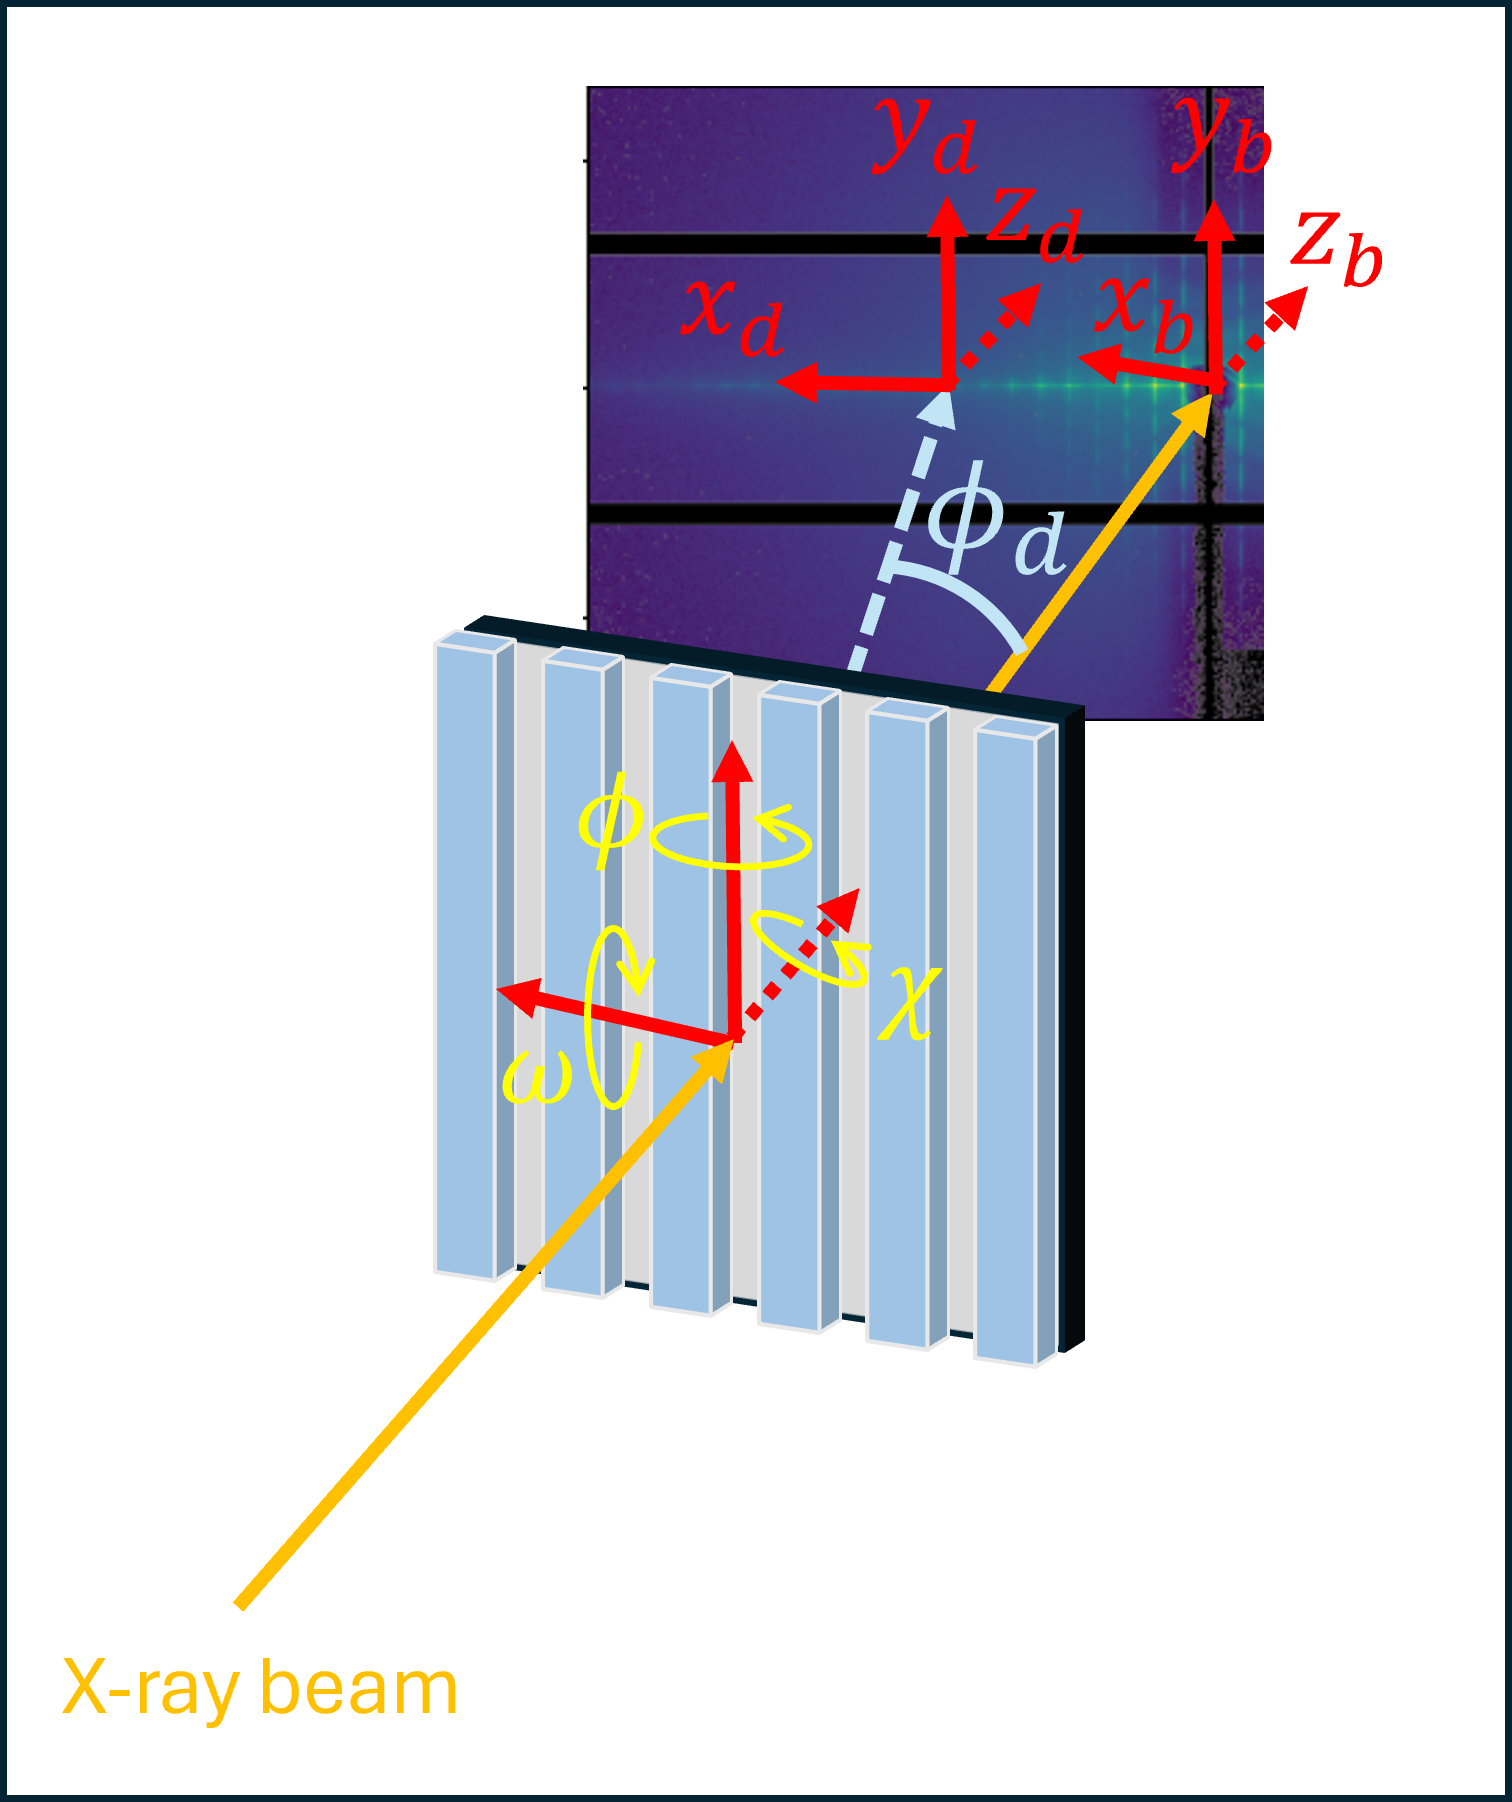
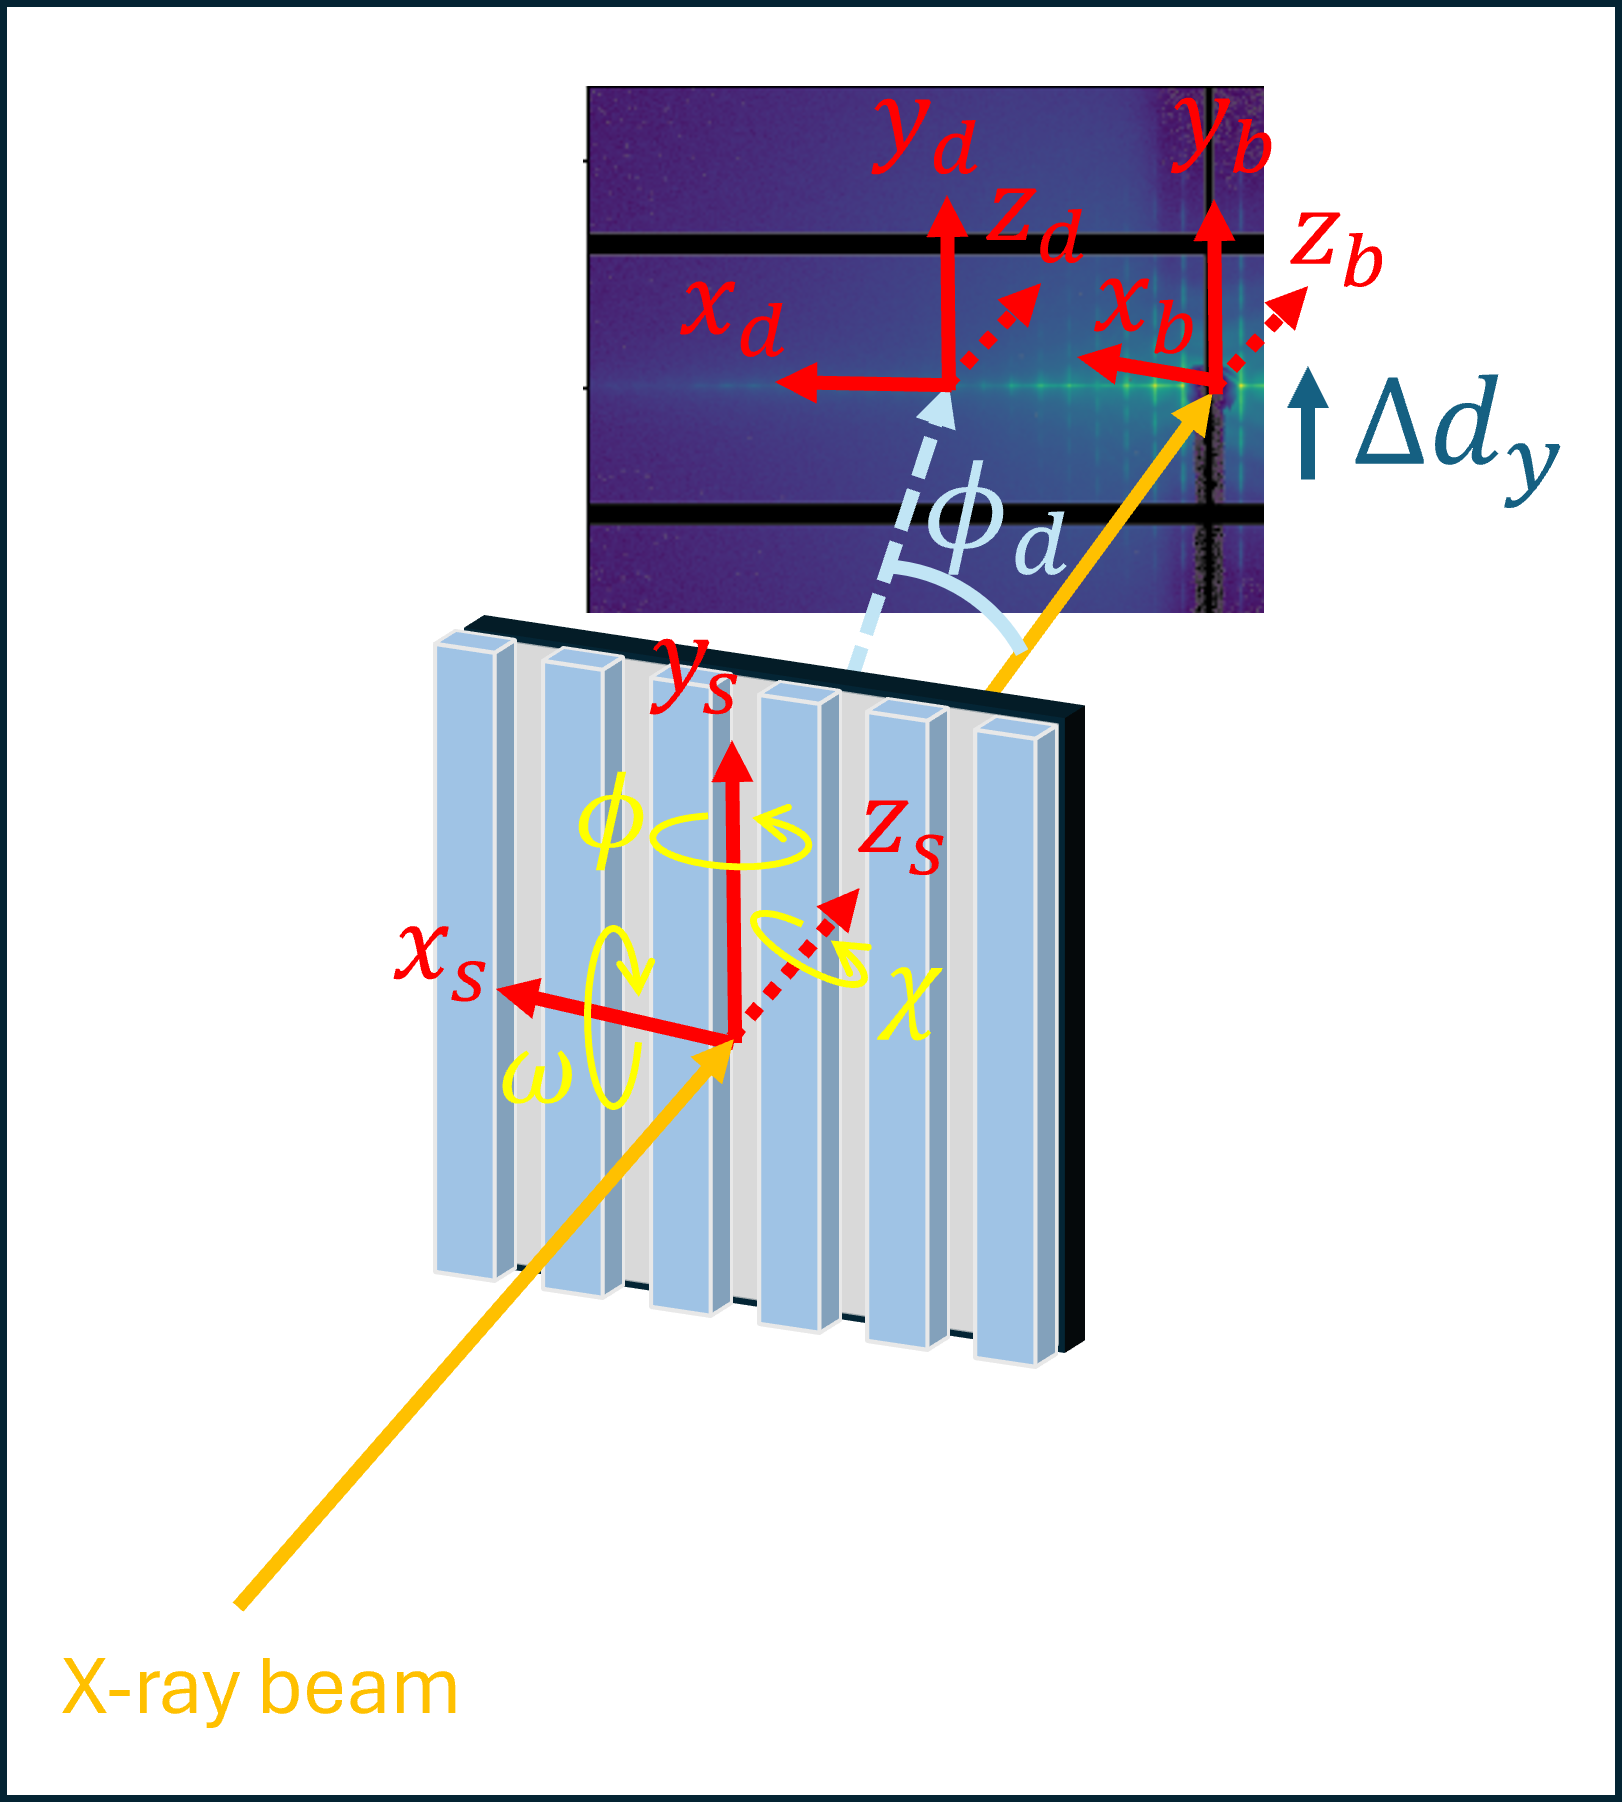
added additional coordinate and variable definitions and information

Changed region(s): [[0.0311, 0.0311, 0.9636, 0.9634], [0.9947, 0.0, 1.0, 0.9945]]

diff --git a/README.md b/README.md
@@ -92,9 +92,9 @@ VS Code. Click on the file and make sure to select the appropriate
 Python environment to run the notebook.
 
 
-## CD-SAXS Coordinate Conventions
-All data imported into this software should follow the below coordinate
-conventions. This may require assigning metadata named according to the
+## Coordinate Conventions and Variables
+All data imported into this software should follow the coordinate
+conventions defined below. This may require assigning metadata named according to the
 beamline's coordinate conventions appropriately to this software's
 naming convention. Image transformations, such as rotations or flips, 
 may also be required to ensure the data is processed correctly. While 
@@ -146,21 +146,15 @@ $\phi_d$ in the image.
 The scattering vector, $q$, and it's x-, y-, and z-components can be 
 defined in any of the coordinate systems using the `nist_cdsaxs` software. 
 At normal incidence of the sample and detector, the q-components are identical, e.g., $q_{sx}=q_{dx}=q_{bx}$. 
-
-Sample and detector positions and rotations, as well as information about the 
-X-ray source energy are provided to the software in the `metadata` attribute
-of the `Data2D` class. Please refer to the example Jupyter notebook for more 
-information about how to access this attribute. Table 1 below provides a summary 
-of selected metadata that can be imported into the software as well as some of the 
-calculated values. Also provided are the corresponding variable names in 
-the `nist_cdsaxs` software. Additional metadata relevant to specific data 
-corrections, e.g., footprint correction, are defined in the example notebook 
-where the application of the correction is first introduced.
+All variables defined in Figures 1 and 2 are summarized in Table 1. The table 
+also matches these quantities to the corresponding variable name(s) in the 
+`nist_cdsaxs` software.
 
 
-**Table 1.** Selected metadata and calculated values from the nist_cdsaxs software and the corresponding software variable names.
+**Table 1.** variable definitions from Figures 1 and 2 and their corresponding 
+variable name in the `nist_cdsaxs` software.
 
-| Variable | Name in `nist_cdsaxs` | Definition | Units |
+| Figure Variable | Variable Name in `nist_cdsaxs` | Definition | Units |
 | --- | --- | --- | --- |
 | $\theta$ | `theta_deg` | Scattering angle; angle between the transmitted and scattered beam. | degrees |
 | $q$ | `q` | Scattering vector. | $\AA^{-1}$ |
@@ -177,11 +171,41 @@ where the application of the correction is first introduced.
 | $\chi$ | `sample_chi_deg` + `sample_chi_offset_deg` | Counterclockwise sample rotation about positive z-axis in sample-coodrinate space. | degrees |
 | $\omega$ | `sample_omega_deg` + `sample_omega_offset_deg` | Counterclockwise sample rotation about positive x-axis in sample-coodrinate space. | degrees |
 | $\phi_d$ | `detector_phi_deg` - `detector_phi0_deg` | Detector rotation angle about the positive $y_s$ axis. | degrees |
-| $\lambda$ | `wavelength_nm` | X-ray source wavelength. | nm |
-|  | `energy_ev` | X-ray source energy. | eV |
-|  | `sdd_cm` | Sample-to-detector distance. | cm |
-|  | `exposure_time_s` | Count time of the measurement. | s |
-|  | `pixel_size_um` | Pixel size of the detector. | $\mu m$ |
+| $\Delta d_y$ | `detector_y_mm` - `detector_y0_mm` | Detector translation along the $y_d$ axis. | mm |
+
+[!NOTE]
+Some properties above are defined as the summation or difference of two variables in 
+the software. These include $\phi$, $\chi$, $\omega$, and $\phi_d$. The offsets by 
+default are always set to 0. However, if there is a difference between the nominal 0 position 
+and normal incidence, an offset can be applied by the user to correct for this.
+
+All metadata is stored in the `metadata` attribute
+of the `Data2D` class. Please refer to the example Jupyter notebook for more 
+information about how to access this attribute. Table 1 below provides a summary 
+of accepted metadata that can be imported into the software. Users can also store 
+additional information in the `user_params` attribute. These quantities can be used to 
+perform data transformations, such as normalizations, but are not standard metadata 
+recognized by the software and the user is responsible for applying these properties correction. 
+Additional metadata required for specific corrections, including the footprint correction 
+and absoprtion correction, are introduced in greater detail in the example notebook.
+
+**Table 2.** Metadata of the `nist_cdsaxs` software.
+
+| Metadata in `nist_cdsaxs` | Definition | Units |
+| --- | --- | --- |
+| `wavelength_nm` | X-ray source wavelength. | nm |
+| `energy_ev` | X-ray source energy. | eV |
+| `sdd_cm` | Sample-to-detector distance. | cm |
+| `exposure_time_s` | Count time of the measurement. | s |
+| `pixel_size_um` | Pixel size of the detector. | $\mu m$ |
+| `scaling_factor`
+| `I0`
+| `beam_current` 
+| `data_directory`
+| `filename`
+| `name`
+| `center_px` 
+
 
 
 
